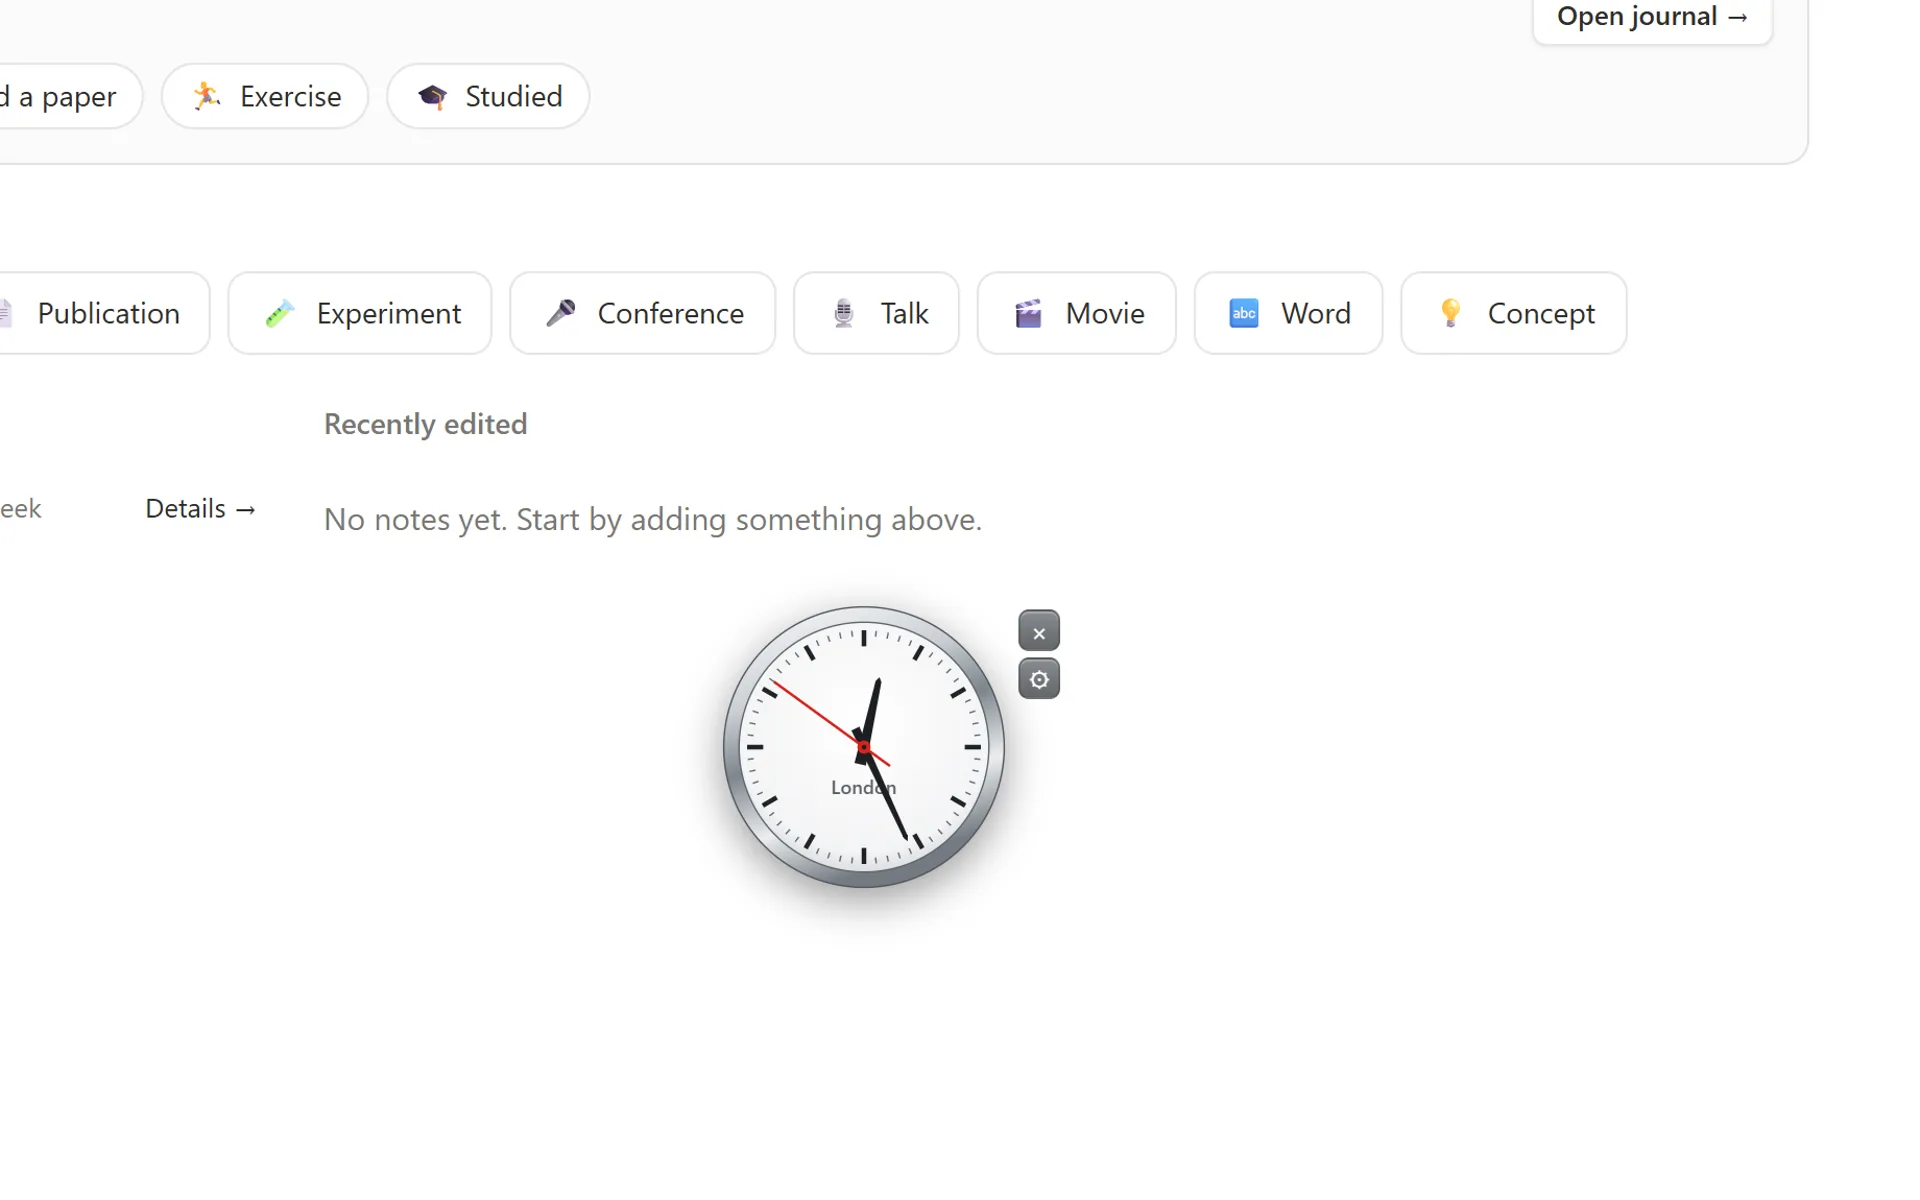
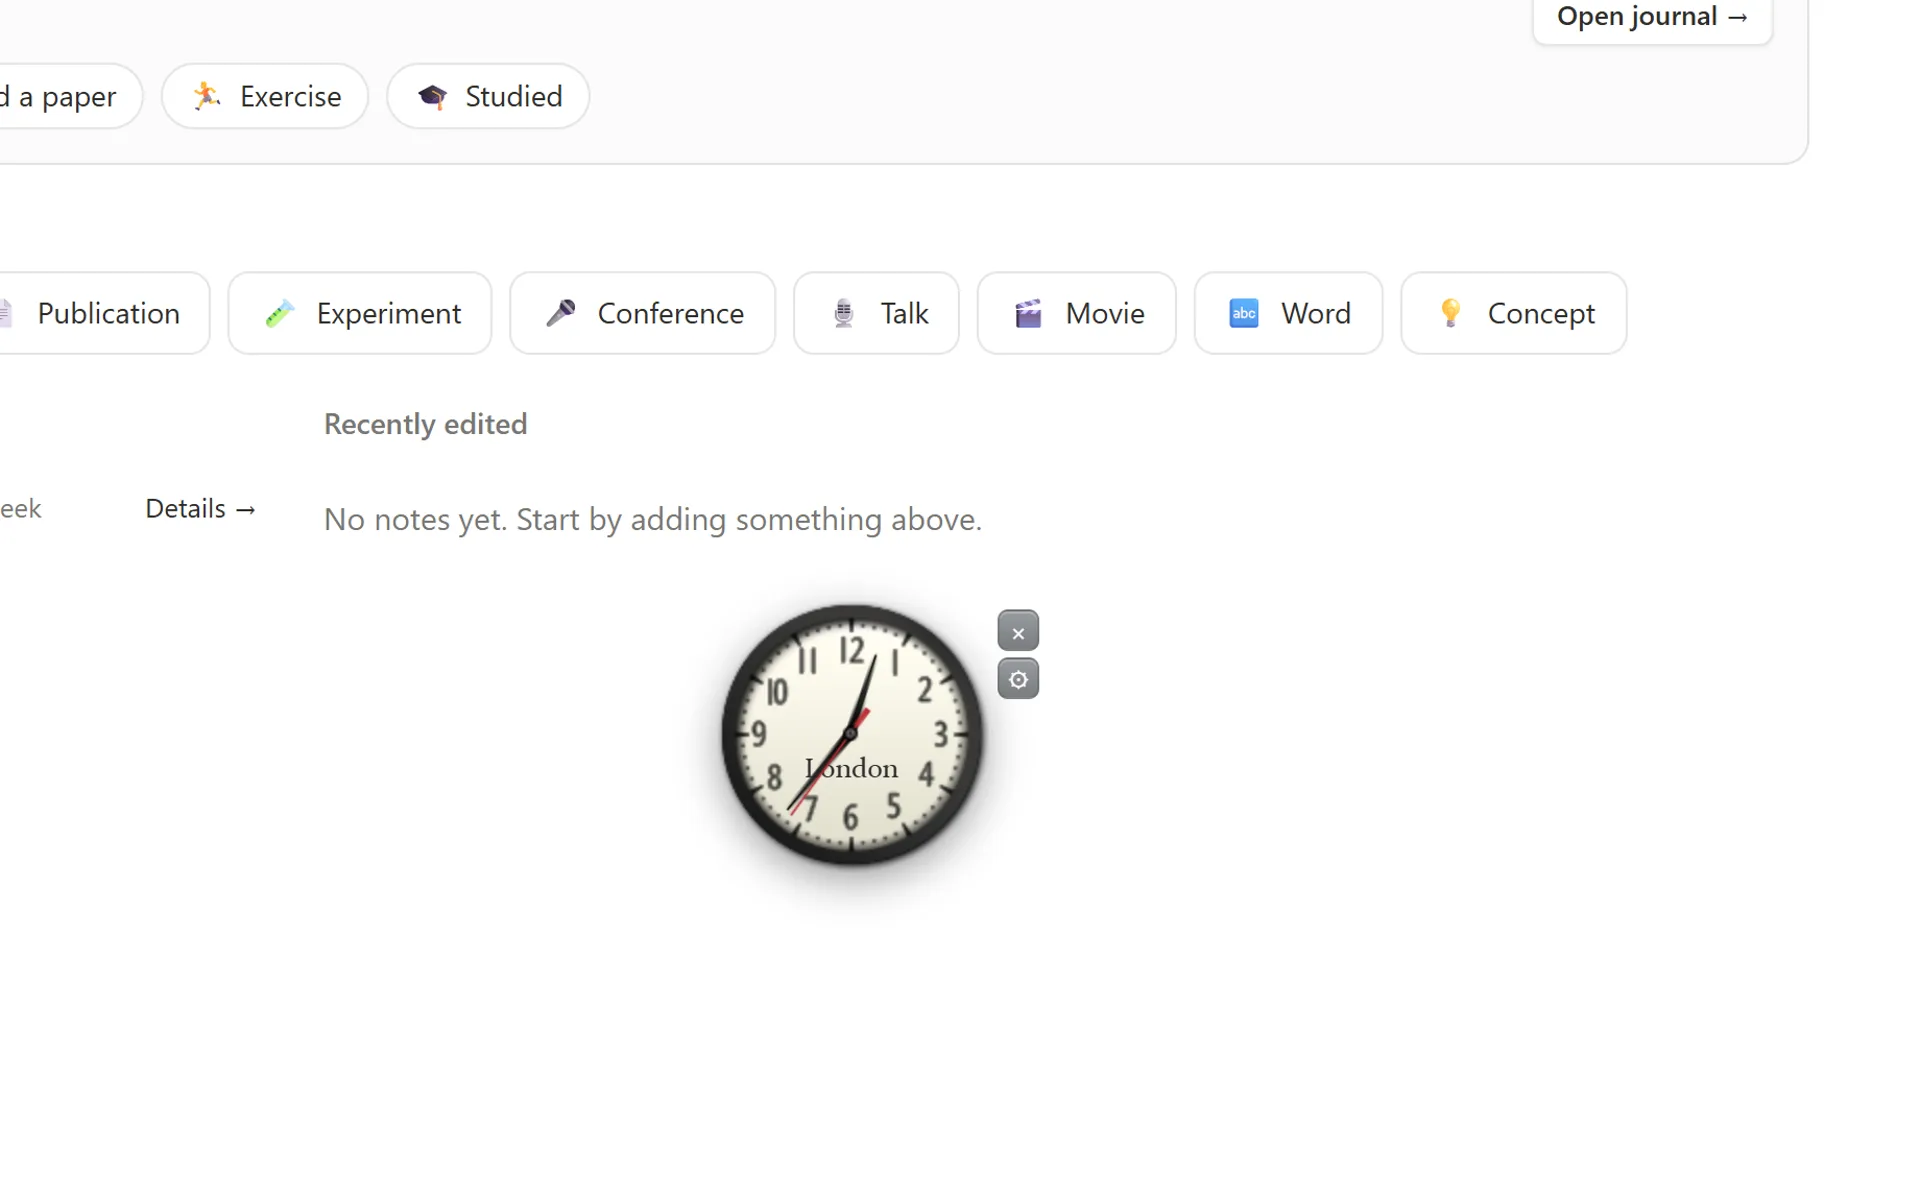
Clock plugin: original Windows 7 faces and a swatch-style face picker
Adds the eight faces of the Windows 7 Clock gadget (traditional, system,
chronometer, neon, daisy, modern, square, monster) from the gadget's own
images, with the hand pivots, label fonts, colours and offsets it used;
the traditional face becomes the default. The hand-drawn SVG faces stay.

Face choice is now a grid of preview tiles, like the sticky note colours,
instead of a long list of names in the gadget menu; Settings shows the same
tiles in two rows (Windows 7 faces, then ours).

Changed region(s): [[0.375, 0.4933, 0.5625, 0.7708]]

diff --git a/web/src/components/clock/Win7Face.tsx b/web/src/components/clock/Win7Face.tsx
@@ -1,0 +1,81 @@
+import type { Win7Skin } from '../../lib/clock';
+
+// Windows 7 Saat gadget'ının kendi kadranları: gövde + akrep/yelkovan/saniye/göbek görselleri (public/clocks/).
+// Ölçüler gadget'ın kendisinden: 130×130'luk gövde; ibre görselleri 12'yi gösterir ve kendi ortalarından döner.
+// Ad etiketi her kadranda orijinaldeki yazı tipi, renk ve konumla yazılır.
+
+const FILE: Record<Win7Skin, string> = {
+  trad: 'trad', system: 'system', cronometer: 'cronometer', diner: 'diner', flower7: 'flower', modern: 'modern', square: 'square', novelty: 'novelty',
+};
+
+interface Geo {
+  /** ibre görselinin sol üst köşesi ve boyutu */
+  hand: [x: number, y: number, w: number, h: number];
+  /** gövde genişliği (yalnız novelty 118) */
+  bodyW?: number;
+  font: string;
+  color: string;
+  /** yazı boyu (pt) */
+  size?: number;
+  /** etiketin dikey/yatay kayması (px) */
+  dy?: number;
+  dx?: number;
+  /** etiketin en geniş hâli (px) */
+  max: number;
+}
+
+const SEGOE = '"Segoe UI", Tahoma, sans-serif';
+const NARROW = `"Arial Narrow", ${SEGOE}`;
+
+const GEO: Record<Win7Skin, Geo> = {
+  trad: { hand: [57, -1, 13, 129], font: `Constantia, Georgia, ${SEGOE}`, color: '#2F2E2E', dy: -3, dx: -1, max: 66 },
+  system: { hand: [58, 0, 13, 129], font: NARROW, color: '#666666', dy: 3, dx: 1, max: 72 },
+  cronometer: { hand: [57, -1, 13, 129], font: NARROW, color: '#FF0000', dy: 6, max: 70 },
+  diner: { hand: [58, -1, 13, 129], font: `"Segoe Script", cursive, ${SEGOE}`, color: '#D3D9E3', size: 9, max: 56 },
+  flower7: { hand: [59, 0, 13, 129], font: `"Arial Rounded MT Bold", ${SEGOE}`, color: '#FE8E08', size: 9, dy: 2, dx: 2, max: 71 },
+  modern: { hand: [58, -1, 13, 129], font: NARROW, color: '#FFFFFF', dy: 3, max: 74 },
+  square: { hand: [57, -1, 13, 129], font: `Calibri, ${SEGOE}`, color: '#000000', size: 9, max: 70 },
+  novelty: { hand: [59, 46, 7, 81], bodyW: 118, font: `Calibri, ${SEGOE}`, color: '#6dadff', dy: 18, max: 60 },
+};
+
+interface Props {
+  skin: Win7Skin;
+  hour: number;
+  minute: number;
+  second: number;
+  seconds: boolean;
+  label?: string;
+  title?: string;
+  bare?: boolean;
+}
+
+export default function Win7Face(p: Props) {
+  const g = GEO[p.skin];
+  const src = (part: string) => `${import.meta.env.BASE_URL}clocks/${FILE[p.skin]}${part}.webp`;
+  const [x, y, w, h] = g.hand;
+  const cx = x + w / 2;
+  const cy = y + h / 2;
+  const hand = (part: string, a: number) => (
+    <image href={src(part)} x={x} y={y} width={w} height={h} transform={a ? `rotate(${+a.toFixed(2)} ${cx} ${cy})` : undefined} />
+  );
+  const bw = g.bodyW ?? 130;
+  // pt → px; etiket kadranın ortasının biraz altında (orijinalde üstten 75px + kayma, 8px yarım satır)
+  const fs = ((g.size ?? 10) * 4) / 3;
+  const label = p.label && p.label.length > 14 ? `${p.label.slice(0, 13)}…` : p.label;
+  return (
+    <svg className="clock-face w7c" viewBox="0 0 130 130" role="img" aria-label={p.title}>
+      {p.title && <title>{p.title}</title>}
+      <image href={src('')} x={(130 - bw) / 2} y="0" width={bw} height="130" />
+      {!p.bare && label && (
+        <text x={65 + (g.dx ?? 0)} y={75 + (g.dy ?? 0) + 8} fill={g.color} fontFamily={g.font} fontSize={fs}
+          textAnchor="middle" dominantBaseline="central">
+          {label}
+        </text>
+      )}
+      {hand('_h', p.hour)}
+      {hand('_m', p.minute)}
+      {p.seconds && hand('_s', p.second)}
+      {hand('_dot', 0)}
+    </svg>
+  );
+}

diff --git a/web/src/components/clock/Clock.tsx b/web/src/components/clock/Clock.tsx
@@ -1,5 +1,5 @@
 import { t } from '../../i18n';
-import { CLOCK_SKINS, clockParts, clockTooltip, handAngles, patchClock, useNow, type ClockSettings } from '../../lib/clock';
+import { DEFAULT_SKIN, SVG_SKINS, WIN7_SKINS, clockParts, clockTooltip, handAngles, patchClock, useNow, type ClockSettings, type ClockSkin } from '../../lib/clock';
 import type { MenuItem } from '../ContextMenu';
 import ClockFace from './ClockFace';
 
@@ -9,16 +9,39 @@ export default function Clock({ s, bare }: { s: ClockSettings; bare?: boolean })
   const now = useNow();
   const a = handAngles(clockParts(now, s.tz));
   return (
-    <ClockFace skin={s.skin ?? 'classic'} hour={a.hour} minute={a.minute} second={a.second}
+    <ClockFace skin={s.skin ?? DEFAULT_SKIN} hour={a.hour} minute={a.minute} second={a.second}
       seconds={s.seconds ?? true} label={s.label} bare={bare} title={clockTooltip(now, s.tz)} />
   );
+}
+
+/** Kaplama önizlemesi: ibreler 10:10'u gösterir (saat reklamlarındaki gibi) */
+export const SkinPreview = ({ skin }: { skin: ClockSkin }) => <ClockFace skin={skin} hour={305} minute={60} second={210} seconds bare />;
+
+const ROW = 4;
+
+/** Kaplama seçimi: not kâğıdı renkleri gibi yazısız kutucuk sıraları (önce orijinal Win7 kadranları, sonra bizimkiler) */
+function skinRows(s: ClockSettings): MenuItem[] {
+  const cur = s.skin ?? DEFAULT_SKIN;
+  const rows: MenuItem[] = [];
+  for (const group of [WIN7_SKINS, SVG_SKINS] as ClockSkin[][]) {
+    for (let i = 0; i < group.length; i += ROW) {
+      rows.push({
+        key: `k-${group[i]}`,
+        className: 'clock-swatch',
+        swatches: group.slice(i, i + ROW).map((k) => ({ id: k, label: t(`clock.skins.${k}`), on: cur === k, content: <SkinPreview skin={k} /> })),
+        pick: (id) => void patchClock({ skin: id as ClockSkin }),
+      });
+    }
+    if (group === WIN7_SKINS) rows.push({ key: 'k-sep', sep: true });
+  }
+  return rows;
 }
 
 /** Kaplama ve saniye ibresi seçimleri (gadget menüsü ve ana sayfa bileşeni ortak) */
 export function clockMenuItems(s: ClockSettings, extra: MenuItem[] = []): MenuItem[] {
   const check = (on: boolean) => (on ? '✓' : '');
   return [
-    ...CLOCK_SKINS.map((k): MenuItem => ({ key: `k-${k}`, icon: check((s.skin ?? 'classic') === k), label: t(`clock.skins.${k}`), run: () => void patchClock({ skin: k }) })),
+    ...skinRows(s),
     { key: 's1', sep: true },
     { key: 'sec', icon: check(s.seconds ?? true), label: t('clock.settings.seconds'), run: () => void patchClock({ seconds: !(s.seconds ?? true) }) },
     ...extra,

diff --git a/web/src/lib/clock.ts b/web/src/lib/clock.ts
@@ -2,12 +2,21 @@ import { useEffect, useState } from 'react';
 import { localeTag } from '../i18n';
 import { saveSettings, useStore } from './store';
 
-// "Saat" eklentisi (Windows 7 Saat gadget'ı gibi): analog kadran, 8 kaplama, saat dilimi, ad etiketi, saniye ibresi.
+// "Saat" eklentisi (Windows 7 Saat gadget'ı gibi): analog kadran, 16 kaplama, saat dilimi, ad etiketi, saniye ibresi.
+// Kaplamaların 8'i Windows 7 gadget'ının kendi görselleri (public/clocks/), 8'i bizim çizdiğimiz SVG'ler.
 // Gadget ekranda serbest durur (depolama göstergesiyle aynı davranış: sürükleme, sabit/kaymalı, gizleme);
 // istenirse ana sayfa bileşeni olarak da eklenir. Ayarlar Settings.clock'ta, Drive'a eşitlenir.
 
-export type ClockSkin = 'classic' | 'night' | 'wood' | 'flower' | 'roman' | 'aero' | 'station' | 'retro';
-export const CLOCK_SKINS: ClockSkin[] = ['classic', 'night', 'wood', 'flower', 'roman', 'aero', 'station', 'retro'];
+/** Windows 7 Saat gadget'ının 8 kadranı, gadget'taki sırasıyla */
+export type Win7Skin = 'trad' | 'system' | 'cronometer' | 'diner' | 'flower7' | 'modern' | 'square' | 'novelty';
+export type SvgSkin = 'classic' | 'night' | 'wood' | 'flower' | 'roman' | 'aero' | 'station' | 'retro';
+export type ClockSkin = Win7Skin | SvgSkin;
+export const WIN7_SKINS: Win7Skin[] = ['trad', 'system', 'cronometer', 'diner', 'flower7', 'modern', 'square', 'novelty'];
+export const SVG_SKINS: SvgSkin[] = ['classic', 'night', 'wood', 'flower', 'roman', 'aero', 'station', 'retro'];
+export const CLOCK_SKINS: ClockSkin[] = [...WIN7_SKINS, ...SVG_SKINS];
+/** varsayılan kaplama: orijinal gadget'ınki gibi geleneksel kadran */
+export const DEFAULT_SKIN: ClockSkin = 'trad';
+export const isWin7Skin = (k: ClockSkin): k is Win7Skin => (WIN7_SKINS as string[]).includes(k);
 
 export interface ClockSettings {
   skin?: ClockSkin;

diff --git a/web/src/components/clock/ClockSettings.tsx b/web/src/components/clock/ClockSettings.tsx
@@ -1,8 +1,8 @@
 import { t } from '../../i18n';
 import { useMemo } from 'react';
-import { CLOCK_SKINS, patchClock, setClockFixed, timeZones, tzLabel, useClockSettings } from '../../lib/clock';
+import { DEFAULT_SKIN, SVG_SKINS, WIN7_SKINS, patchClock, setClockFixed, timeZones, tzLabel, useClockSettings } from '../../lib/clock';
 import { pageScrollTop } from '../../lib/pageScroll';
-import ClockFace from './ClockFace';
+import { SkinPreview } from './Clock';
 
 // Ayarlar > Saat: kaplama (önizlemeli), ad, saat dilimi, saniye ibresi, gadget'ın yeri, sabitliği ve görünürlüğü
 
@@ -17,11 +17,15 @@ export default function ClockSettings() {
     <div className="meter-settings clock-settings">
       {row(t('clock.settings.skin'), (
         <div className="clock-skins">
-          {CLOCK_SKINS.map((k) => (
-            <button key={k} className={(s.skin ?? 'classic') === k ? 'on' : ''} title={t(`clock.skins.${k}`)} aria-label={t(`clock.skins.${k}`)}
-              onClick={() => void patchClock({ skin: k })}>
-              <ClockFace skin={k} hour={305} minute={60} second={210} seconds bare />
-            </button>
+          {[WIN7_SKINS, SVG_SKINS].map((group, i) => (
+            <div key={i} className="clock-skin-row">
+              {group.map((k) => (
+                <button key={k} className={(s.skin ?? DEFAULT_SKIN) === k ? 'on' : ''} title={t(`clock.skins.${k}`)} aria-label={t(`clock.skins.${k}`)}
+                  onClick={() => void patchClock({ skin: k })}>
+                  <SkinPreview skin={k} />
+                </button>
+              ))}
+            </div>
           ))}
         </div>
       ))}

diff --git a/web/src/components/clock/ClockFace.tsx b/web/src/components/clock/ClockFace.tsx
@@ -1,7 +1,8 @@
 import { useId } from 'react';
-import type { ClockSkin } from '../../lib/clock';
+import { isWin7Skin, type ClockSkin, type SvgSkin } from '../../lib/clock';
+import Win7Face from './Win7Face';
 
-// Windows 7 Saat gadget'ının 8 kadranından esinli SVG çizimler (kendi çizimimiz, görsel kopyalanmadı).
+// Kendi çizdiğimiz 8 SVG kadran (orijinal Win7 kadranları Win7Face.tsx'te).
 // Hepsi 200×200'lük kutuda, merkez (100,100). Kaplama: çerçeve + yüz + işaretler + ibre biçimi/renkleri.
 
 const C = 100;
@@ -56,7 +57,7 @@ function numerals(o: { r: number; color: string; size: number; font: string; wei
 const SERIF = 'Georgia, "Times New Roman", serif';
 const SANS = '"Segoe UI", system-ui, sans-serif';
 
-const SKINS: Record<ClockSkin, Skin> = {
+const SKINS: Record<SvgSkin, Skin> = {
   // Win7'nin varsayılanı gibi: krom çerçeve, beyaz yüz, siyah çizgiler, kırmızı saniye
   classic: {
     hands: { hour: '#1d1f22', minute: '#1d1f22', second: '#d8231b', shape: 'taper', cap: '#1d1f22' },
@@ -272,7 +273,12 @@ interface Props {
   bare?: boolean;
 }
 
+/** Kaplamaya göre orijinal Win7 görselleri ya da bizim SVG çizimimiz */
 export default function ClockFace(p: Props) {
+  return isWin7Skin(p.skin) ? <Win7Face {...p} skin={p.skin} /> : <SvgFace {...p} skin={p.skin} />;
+}
+
+function SvgFace(p: Props & { skin: SvgSkin }) {
   const id = useId().replace(/:/g, '');
   const sk = SKINS[p.skin] ?? SKINS.classic;
   const h = sk.hands;

diff --git a/web/src/pages.css b/web/src/pages.css
@@ -514,7 +514,14 @@ body.focus-mode .meter-gadget { display: none; }
 body.focus-mode .clock-gadget { display: none; }
 .clock-widget-body { display: flex; justify-content: center; padding: 6px 0 4px; }
 .clock-widget-body .clock-face { width: 170px; height: 170px; }
-.clock-skins { display: flex; flex-wrap: wrap; gap: 6px; }
-.clock-skins button { width: 56px; height: 56px; padding: 4px; border-radius: 10px; border: 2px solid transparent; background: var(--panel); cursor: pointer; }
+.clock-skins { display: flex; flex-direction: column; gap: 6px; }
+.clock-skin-row { display: flex; flex-wrap: wrap; gap: 4px; }
+.clock-skins button { width: 46px; height: 46px; padding: 3px; border-radius: 9px; border: 2px solid transparent; background: var(--panel); cursor: pointer; }
 .clock-skins button.on { border-color: var(--accent); }
 .clock-skins .clock-face { width: 100%; height: 100%; display: block; }
+.clock-swatch { width: 38px; height: 38px; padding: 2px; border-radius: 7px; border: 1px solid transparent; background: none; cursor: pointer; }
+.clock-swatch:hover { background: var(--panel); }
+.clock-swatch.on { outline: 2px solid var(--accent); outline-offset: 0; }
+.clock-swatch .clock-face { width: 100%; height: 100%; display: block; }
+/* orijinal Win7 kadranları kendi boyutunda (130px) keskin görünür */
+.clock-gadget .clock-face.w7c { width: 130px; height: 130px; }

diff --git a/web/src/i18n/locales/tr/plugins.ts b/web/src/i18n/locales/tr/plugins.ts
@@ -97,13 +97,13 @@ export default {
   },
   clock: {
     name: 'Saat',
-    summary: 'Ekranın üstünde duran, sekiz kadran kaplamalı bir analog saat.',
+    summary: 'Ekranın üstünde duran, Windows 7 kadranlı bir analog saat.',
     description: {
       p1: 'Ekranın üstünde serbest duran analog bir saat. İstediğin yere sürükleyebilir, sayfa kaydırıldığında ekranda sabit mi kalsın yoksa sayfayla birlikte mi kaysın seçebilirsin.',
-      p2: 'Sekiz kadran arasından seçim yapabilirsin: klasik krom, gece, ahşap, çiçek, Roma rakamlı, Aero cam, istasyon ve retro. Saate bir ad verebilir, başka bir saat dilimini gösterebilir, saniye ibresini kapatabilirsin.',
+      p2: 'On altı kadran arasından seçim yapabilirsin: Windows 7 Saat gadget’ının sekiz orijinal kadranı ve sekiz yeni kadran (klasik krom, gece, ahşap, çiçek, Roma rakamlı, Aero cam, istasyon, retro). Saate bir ad verebilir, başka bir saat dilimini gösterebilir, saniye ibresini kapatabilirsin.',
     },
     features: {
-      f1: '8 kadran kaplaması',
+      f1: 'Windows 7’nin 8 orijinal kadranı ve 8 yeni kadran',
       f2: 'Saat dilimi seçimi ve kadranın içinde görünen ad',
       f3: 'Saniye ibresi açılıp kapatılabilir',
       f4: 'İstersen ana sayfaya bileşen olarak da eklenir',

diff --git a/web/src/components/ContextMenu.tsx b/web/src/components/ContextMenu.tsx
@@ -7,8 +7,8 @@ import { create } from 'zustand';
 export type MenuItem =
   | { key: string; icon?: string; label: string; danger?: boolean; run: () => void }
   | { key: string; sep: true }
-  /** tek satırda renk seçimi */
-  | { key: string; swatches: { id: string; label: string; on?: boolean; style?: React.CSSProperties }[]; className: string; pick: (id: string) => void };
+  /** tek satırda renk seçimi; kutucuğun içine önizleme konabilir (content) */
+  | { key: string; swatches: { id: string; label: string; on?: boolean; style?: React.CSSProperties; content?: React.ReactNode }[]; className: string; pick: (id: string) => void };
 
 const useMenu = create<{ menu: { x: number; y: number; items: MenuItem[] } | null }>(() => ({ menu: null }));
 
@@ -63,7 +63,7 @@ export default function ContextMenu() {
             <div key={it.key} className="ctxmenu-swatches">
               {it.swatches.map((s) => (
                 <button key={s.id} className={`${it.className} c-${s.id} ${s.on ? 'on' : ''}`} title={s.label} aria-label={s.label} style={s.style}
-                  onClick={() => { closeMenu(); it.pick(s.id); }} />
+                  onClick={() => { closeMenu(); it.pick(s.id); }}>{s.content}</button>
               ))}
             </div>
           );

diff --git a/web/src/i18n/locales/en/plugins.ts b/web/src/i18n/locales/en/plugins.ts
@@ -99,13 +99,13 @@ export default {
   },
   clock: {
     name: 'Clock',
-    summary: 'An analog clock that floats above the screen, with eight faces.',
+    summary: 'An analog clock that floats above the screen, with Windows 7 faces.',
     description: {
       p1: 'An analog clock that floats freely above the screen. Drag it anywhere, and choose whether it stays fixed on screen or scrolls with the page.',
-      p2: 'Pick from eight faces: classic chrome, night, wood, flower, Roman numerals, Aero glass, station and retro. You can give the clock a name, show another time zone and turn off the second hand.',
+      p2: 'Pick from sixteen faces: the eight original faces of the Windows 7 Clock gadget and eight new ones (classic chrome, night, wood, flower, Roman numerals, Aero glass, station, retro). You can give the clock a name, show another time zone and turn off the second hand.',
     },
     features: {
-      f1: '8 clock faces',
+      f1: 'The 8 original Windows 7 faces plus 8 new ones',
       f2: 'Time zone choice and a name shown on the face',
       f3: 'Second hand can be turned off',
       f4: 'Can also be added to the home page as a widget',

diff --git a/web/src/i18n/locales/en/clock.ts b/web/src/i18n/locales/en/clock.ts
@@ -7,6 +7,14 @@ export default {
   hide: 'Hide clock',
   show: 'Show clock',
   skins: {
+    trad: 'Windows 7: Traditional',
+    system: 'Windows 7: System',
+    cronometer: 'Windows 7: Chronometer',
+    diner: 'Windows 7: Neon',
+    flower7: 'Windows 7: Daisy',
+    modern: 'Windows 7: Modern',
+    square: 'Windows 7: Square',
+    novelty: 'Windows 7: Monster',
     classic: 'Classic chrome',
     night: 'Night',
     wood: 'Wood',

diff --git a/web/src/i18n/locales/tr/clock.ts b/web/src/i18n/locales/tr/clock.ts
@@ -5,6 +5,14 @@ export default {
   hide: 'Saati gizle',
   show: 'Saati göster',
   skins: {
+    trad: 'Windows 7: Geleneksel',
+    system: 'Windows 7: Sistem',
+    cronometer: 'Windows 7: Kronometre',
+    diner: 'Windows 7: Neon',
+    flower7: 'Windows 7: Papatya',
+    modern: 'Windows 7: Modern',
+    square: 'Windows 7: Kare',
+    novelty: 'Windows 7: Canavar',
     classic: 'Klasik krom',
     night: 'Gece',
     wood: 'Ahşap',
